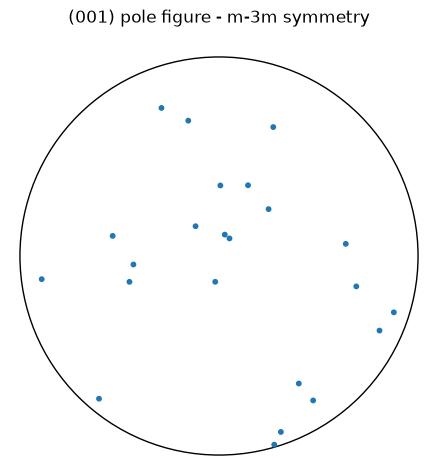
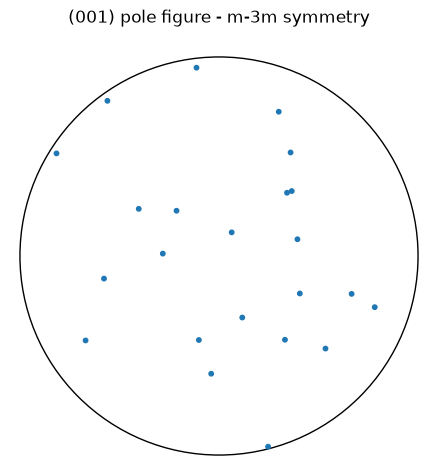
docs: final reporting (VERIFY_REPORT, UNSUPPORTED, README, ENV_REPORT)

diff --git a/docs/README.md b/docs/README.md
@@ -4,12 +4,19 @@ A fully reproducible, **headless** (no GUI, no GPU), open-source engineering and
 materials-science workspace: Ubuntu 24.04 devcontainer, per-domain conda-forge
 environments, numbered install scripts, honest smoke tests, and GitHub Actions CI.
 
-> Status: scaffolding (FEAT-001). Tier tooling, env YAMLs, and smoke tests are
-> added by later features.
+## Purpose
+
+Give engineers and materials scientists a single reproducible workspace that
+replaces common proprietary tools (Ansys/Abaqus/COMSOL, Fluent, SolidWorks,
+ChemDraw, MATLAB/Simulink, Origin, Thermo-Calc, VASP, VESTA, LTspice, ...) with
+open-source equivalents that run **headless** in a container or CI, with every
+tool backed by a smoke test. The full proprietary -> open-source fallback map is
+in [`docs/UNSUPPORTED.md`](UNSUPPORTED.md).
 
 ## Quick start
 
-Inside the devcontainer (or any Ubuntu 24.04 host):
+The two commands you need are **`make setup`** and **`make verify`**. Run them
+inside the devcontainer (or any Ubuntu 24.04 host):
 
 ```bash
 make setup    # detect environment, then run install stages 10..50 in order
@@ -17,6 +24,33 @@ make verify   # run every smoke test -> docs/VERIFY_REPORT.md
 make report   # print docs/ENV_REPORT.md and docs/VERIFY_REPORT.md
 make clean    # remove build artifacts (keeps source)
 ```
+
+## Prerequisites
+
+- **Ubuntu 24.04** (the devcontainer base). The install stages use `apt`,
+  conda-forge, `npm`, and GitHub release binaries.
+- **conda / mamba** (miniforge) for the per-domain environments in `envs/`.
+- **Node.js + npm** for mermaid-cli, draw.io and the self-hosted Ketcher build.
+- Optionally a working **Apptainer** (preferred) or **Docker** runtime for the
+  container-image tools (Code_Aster, OpenFOAM fallback).
+- `make`, `bash`, `git`, and Python 3.11.
+
+Everything is authored to run **inside the devcontainer/CI**; no host build
+system is required. On other hosts the install stages detect missing tooling and
+skip gracefully (see the honesty rule below).
+
+## Open in a devcontainer / GitHub Codespaces
+
+This repo ships a `.devcontainer/` (Ubuntu 24.04 `Dockerfile` +
+`devcontainer.json`). Two ways to open it:
+
+- **VS Code + Dev Containers:** open the folder and run
+  *"Dev Containers: Reopen in Container"*. The container builds from
+  `.devcontainer/Dockerfile`.
+- **GitHub Codespaces:** click **Code -> Codespaces -> Create codespace**. The
+  same devcontainer definition is used.
+
+Once the container is up, run `make setup` then `make verify`.
 
 ## Layout
 
@@ -71,6 +105,12 @@ Any static server works equally well, e.g. `python3 -m http.server 8080 -d .loca
 If the build fails or exceeds the 30-min cap it is recorded in
 [`docs/UNSUPPORTED.md`](UNSUPPORTED.md) with the RDKit/Indigo fallback.
 
+## Obsidian vault & plugins
+
+Lab notes live in `notes/obsidian-vault/`. The recommended community plugins
+(and how to enable them for a scientific workflow) are documented in
+[`notes/obsidian-vault/PLUGINS.md`](../notes/obsidian-vault/PLUGINS.md).
+
 ## FEA / multiphysics / mesh / CFD (Tier 3)
 
 The `fea` conda env (`envs/fea.yml`) provides FEniCSx (dolfinx), FiPy,
@@ -82,19 +122,25 @@ via `pip` in that env's `pip:` section. System solvers (`calculix-ccx`, `gmsh`,
 ### Offscreen rendering (PyVista / ParaView)
 
 On a headless host there is no X server, so PyVista/ParaView render through
-software/EGL OpenGL. `scripts/10_apt.sh` installs `libosmesa6` (OSMesa), the
-Mesa DRI/EGL libraries, and exports:
+software (**OSMesa**) or **EGL** OpenGL. `scripts/10_apt.sh` installs
+`libosmesa6` (OSMesa) plus the Mesa DRI/EGL/GLX libraries and exports the
+offscreen environment variables:
 
 ```bash
-export PYVISTA_OFF_SCREEN=true
+export PYVISTA_OFF_SCREEN=true   # PyVista never opens a window
+export PYOPENGL_PLATFORM=osmesa  # or 'egl' on EGL-capable hosts
+export MPLCONFIGDIR=/tmp/mpl     # writable matplotlib cache (read-only $HOME)
 ```
 
-Set this in your shell (CI and the devcontainer already export it) so PyVista
-never tries to open a window:
+Set these in your shell (CI and the devcontainer already export them) so PyVista
+renders headless:
 
 ```bash
 PYVISTA_OFF_SCREEN=true python my_pyvista_script.py
 ```
+
+OSMesa is the software rasteriser (no GPU needed); EGL is the GPU/accelerated
+offscreen path. Either works for the headless smoke tests.
 
 ### OpenFOAM: apt repo (primary) with Docker fallback
 
@@ -154,11 +200,72 @@ already loaded by `templates/block-notes.tex` and exercised by
 (`kicad-cli` version + minimal schematic SVG export), `schemdraw_rc.py` (RC
 circuit to PNG).
 
-## Honesty rule
+## Honesty rule & how to read `VERIFY_REPORT.md`
 
 A tool is never marked **PASS** until its smoke test actually passes. Anything
 that cannot install in a headless Linux container is recorded in
 [`docs/UNSUPPORTED.md`](UNSUPPORTED.md) with the reason and a fallback.
+
+`make verify` writes [`docs/VERIFY_REPORT.md`](VERIFY_REPORT.md): a markdown
+table with columns **tool | tier | version | PASS/FAIL/SKIP | seconds | note**,
+rows sorted by tier. Read it as follows:
+
+- **PASS** - the smoke test exited `0`: the tool is installed and its tiny real
+  computation (or render) succeeded. The `version` and `note` columns show what
+  actually ran.
+- **SKIP** - the smoke test exited `2`: the tool is absent / not applicable in
+  this environment. The `note` explains why and points to where it runs for
+  real; every SKIP has a matching reason + fallback in
+  [`docs/UNSUPPORTED.md`](UNSUPPORTED.md).
+- **FAIL** - any other nonzero exit (including a 120s timeout): the tool was
+  present but its check failed. The report never fabricates a PASS.
+
+The committed report reflects the **last real run on the validation host**
+(Amazon Linux 2023: no apt, no conda, no working container runtime). On that
+host only the pip-installable, pure-Python tests execute; everything that needs
+apt/conda/npm/a container is honestly **SKIP** and is staged to run in the
+Ubuntu 24.04 devcontainer / GitHub Actions CI.
+
+## Final summary: what installed vs what was skipped (and why)
+
+The current host run is **10 PASS / 0 FAIL / 28 SKIP (38 tests)**. The table
+below summarises each tool, distinguishing **host-executed** (ran for real here)
+from **devcontainer/CI-staged** (SKIP here, runs for real in the container).
+
+### Host-executed (PASS on this host via pip)
+
+| Tool / test | Tier | What ran |
+| --- | --- | --- |
+| core-python (numpy/scipy/sympy/matplotlib/schemdraw) | 1 | integral/det/plot + schemdraw SVG |
+| rdkit_indigo | 2 | RDKit + Indigo molecule render |
+| pycalphad_phase | 2 | Al-Zn phase diagram |
+| cantera_thermo | 2 | O2 Gibbs energy at 1000 K |
+| meshio_convert | 3 | VTU <-> MSH round-trip |
+| fenics_poisson (scikit-fem fallback) | 3 | Poisson solve, error < tol |
+| ase_pymatgen | 5 | BCC Fe -> space group Im-3m (229) |
+| orix_polefigure | 5 | (001) pole figure PNG |
+| torch_mace (torch CPU) | 5 | CPU tensor op (mace-torch optional) |
+| schemdraw_rc | 6 | RC circuit PNG |
+
+### Devcontainer/CI-staged (SKIP here; runs for real in the container/CI)
+
+| Tools | Tier | Why skipped on host | Where / how they run |
+| --- | --- | --- | --- |
+| latex, mermaid, graphviz, inkscape, drawio, octave, scilab, gnuplot, grace, openscad, veusz | 1 | no apt/npm on host | apt + `scripts/30_node.sh` in devcontainer/CI |
+| openbabel | 2 | conda-forge only | `chem` env |
+| calculix, elmer, freefem, su2, openfoam | 3 | apt/conda/container only | apt / conda / openfoam.org repo + Docker fallback |
+| code_aster | 3 | no working container runtime | Apptainer/Docker image; `scripts/run_aster.sh` |
+| Salome | 3 | skipped by design (GUI/CAE bundle) | Gmsh + meshio + ParaView + FreeCAD |
+| freecad_step, cadquery_stl, openmodelica, julia | 4 | apt / system OpenGL / release binary | apt + `envs/cad.yml` + `scripts/40_binaries.sh` |
+| CAMotics, MBDyn | 4 | apt availability-guarded | AppImage / PyChrono |
+| quantum_espresso, lammps, gromacs, ovito_load | 5 | apt/conda / system OpenGL-Qt | apt + `envs/atomistic.yml` |
+| GPAW, Neper | 5 | apt availability-guarded / conda-forge | conda-forge / source build |
+| ngspice, kicad | 6 | apt only | apt in devcontainer/CI |
+| Xyce | 6 | no wheel / apt pkg | conda-forge, else ngspice |
+
+Full reasons and the proprietary -> open-source fallback map are in
+[`docs/UNSUPPORTED.md`](UNSUPPORTED.md); live results are in
+[`docs/VERIFY_REPORT.md`](VERIFY_REPORT.md).
 
 ## Environment detection
 

diff --git a/docs/VERIFY_REPORT.md b/docs/VERIFY_REPORT.md
@@ -1,49 +1,49 @@
 # Verify Report
 
-_Generated by `scripts/90_verify.sh` on 2026-10-28T17:31:00Z._
+_Generated by `scripts/90_verify.sh` on 2026-10-28T17:35:48Z._
 
 Each smoke test runs with a 120s timeout. Honesty rule:
 a tool is PASS only when its smoke test exits 0; absent tools are SKIP.
 
 Totals: 10 passed, 0 failed, 28 skipped (38 tests).
 
-| tool | tier | version | result | seconds | note |
+| tool | tier | version | PASS/FAIL/SKIP | seconds | note |
 | --- | --- | --- | --- | --- | --- |
-| ase_pymatgen | 5 | ase=3.29.0 spglib=2.8.0 | PASS | 1 | BCC Fe space group Im-3m (No. 229); expected Im-3m (229) |
-| cadquery_stl | 4 | ? | SKIP | 0 | cadquery installed but native OCP import needs system OpenGL (mesa libGL): libGL.so.1: cannot open shared object file: No such file or directory; apt libgl1-mesa-dri/libglu1-mesa in devcontainer/CI |
-| calculix | 3 | ? | SKIP | 0 | gmsh python module absent; apt gmsh / conda-forge in fea env (devcontainer/CI) |
-| cantera_thermo | 2 | cantera=3.2.0; O2 g(1000K)=-220.9 kJ/kmol | PASS | 0 |  |
-| code_aster | 3 | ? | SKIP | 0 | Code_Aster needs a container runtime (none here); official image via Apptainer/Docker in CI. See docs/UNSUPPORTED.md |
 | core-python | 1 | numpy=2.4.6, scipy=1.17.1, sympy=1.14.0, matplotlib=3.11.2, schemdraw=0.23 | PASS | 1 |  |
 | drawio | 1 | ? | SKIP | 0 | drawio-desktop absent on host; scripts/30_node.sh installs it in devcontainer/CI |
-| elmer | 3 | ? | SKIP | 0 | Elmer (ElmerSolver/ElmerGrid) absent; apt elmerfem-csc in devcontainer/CI (apt-only) |
-| fenics_poisson | 3 | scikit-fem=12.0.2 (fallback) | PASS | 1 | scikit-fem Poisson max nodal error=8.026e-04 (tol 1e-02) |
-| freecad_step | 4 | ? | SKIP | 0 | FreeCADCmd absent on host; apt freecad in devcontainer/CI |
-| freefem | 3 | ? | SKIP | 0 | FreeFEM (FreeFem++) absent; apt freefem++ in devcontainer/CI (apt-only) |
 | gnuplot | 1 | ? | SKIP | 0 | gnuplot absent on host; apt gnuplot in devcontainer/CI |
 | grace | 1 | ? | SKIP | 0 | grace (gracebat) absent on host; apt grace in devcontainer/CI |
 | graphviz | 1 | ? | SKIP | 0 | graphviz (dot) absent on host; apt graphviz in devcontainer/CI |
-| gromacs | 5 | ? | SKIP | 0 | GROMACS (gmx) absent; apt gromacs / conda-forge gromacs in devcontainer/CI |
 | inkscape | 1 | ? | SKIP | 0 | inkscape absent on host; apt inkscape in devcontainer/CI (headless) |
-| julia | 4 | ? | SKIP | 0 | julia absent on host; installed via juliaup (scripts/40_binaries.sh) in devcontainer/CI |
-| kicad | 6 | ? | SKIP | 0 | kicad-cli absent on host; apt kicad in devcontainer/CI |
-| lammps | 5 | ? | SKIP | 0 | LAMMPS (lmp) absent; apt lammps / conda-forge lammps in devcontainer/CI |
 | latex | 1 | ? | SKIP | 0 | latexmk/texlive absent on host; runs in Ubuntu 24.04 devcontainer/CI (apt texlive-*) |
 | mermaid | 1 | ? | SKIP | 0 | mermaid-cli (mmdc) absent on host; installed by scripts/30_node.sh in devcontainer/CI |
-| meshio_convert | 3 | meshio=5.3.5 | PASS | 0 | round-trip VTU+MSH -> 4 points, 2 triangles |
-| ngspice | 6 | ? | SKIP | 0 | ngspice absent on host; apt ngspice in devcontainer/CI |
 | octave | 1 | ? | SKIP | 0 | octave absent on host; apt octave in devcontainer/CI |
-| openbabel | 2 | ? | SKIP | 0 | openbabel (obabel) absent on host; conda-forge openbabel in chem env (devcontainer/CI) |
-| openfoam | 3 | ? | SKIP | 0 | OpenFOAM (icoFoam/blockMesh) absent; openfoam.org apt repo in CI, else opencfd/openfoam-default Docker image (HAS_DOCKER) |
-| openmodelica | 4 | ? | SKIP | 0 | omc (OpenModelica) absent on host; official apt repo in devcontainer/CI |
 | openscad | 1 | ? | SKIP | 0 | openscad absent on host; apt openscad in devcontainer/CI |
-| orix_polefigure | 5 | orix=0.15.0 | PASS | 2 | loaded Oh symmetry, plotted (001) pole figure -> figures/python/orix_polefigure.png (24031 bytes) |
-| ovito_load | 5 | ? | SKIP | 0 | ovito absent; pip ovito in the 'atomistic' env (envs/atomistic.yml) |
-| pycalphad_phase | 2 | pycalphad=0.11.2 | PASS | 3 |  |
-| quantum_espresso | 5 | ? | SKIP | 0 | pw.x (Quantum ESPRESSO) absent; apt quantum-espresso / conda-forge qe in devcontainer/CI |
-| rdkit_indigo | 2 | rdkit=2026.09.1, indigo=1.46.0.0-gb36d38f52-x86_64-linux-gnu-11.2.1 | PASS | 0 |  |
-| schemdraw_rc | 6 | schemdraw=0.23 | PASS | 0 | drew RC circuit -> figures/python/schemdraw_rc.png (3254 bytes) |
 | scilab | 1 | ? | SKIP | 0 | scilab absent on host; apt scilab in devcontainer/CI |
-| su2 | 3 | ? | SKIP | 0 | SU2 (SU2_CFD) absent; conda-forge su2 in fea env (devcontainer/CI) or SU2 release binaries |
-| torch_mace | 5 | torch=2.15.0+cpu | PASS | 2 | torch CPU tensor op OK (sum=9.0); mace-torch absent (OPTIONAL) |
 | veusz-plot | 1 | ? | SKIP | 0 | veusz absent on host; apt veusz / conda-forge in devcontainer/CI |
+| cantera_thermo | 2 | cantera=3.2.0; O2 g(1000K)=-220.9 kJ/kmol | PASS | 0 |  |
+| openbabel | 2 | ? | SKIP | 0 | openbabel (obabel) absent on host; conda-forge openbabel in chem env (devcontainer/CI) |
+| pycalphad_phase | 2 | pycalphad=0.11.2 | PASS | 2 |  |
+| rdkit_indigo | 2 | rdkit=2026.09.1, indigo=1.46.0.0-gb36d38f52-x86_64-linux-gnu-11.2.1 | PASS | 0 |  |
+| calculix | 3 | ? | SKIP | 1 | gmsh python module absent; apt gmsh / conda-forge in fea env (devcontainer/CI) |
+| code_aster | 3 | ? | SKIP | 0 | Code_Aster needs a container runtime (none here); official image via Apptainer/Docker in CI. See docs/UNSUPPORTED.md |
+| elmer | 3 | ? | SKIP | 0 | Elmer (ElmerSolver/ElmerGrid) absent; apt elmerfem-csc in devcontainer/CI (apt-only) |
+| fenics_poisson | 3 | scikit-fem=12.0.2 (fallback) | PASS | 1 | scikit-fem Poisson max nodal error=8.026e-04 (tol 1e-02) |
+| freefem | 3 | ? | SKIP | 0 | FreeFEM (FreeFem++) absent; apt freefem++ in devcontainer/CI (apt-only) |
+| meshio_convert | 3 | meshio=5.3.5 | PASS | 0 | round-trip VTU+MSH -> 4 points, 2 triangles |
+| openfoam | 3 | ? | SKIP | 0 | OpenFOAM (icoFoam/blockMesh) absent; openfoam.org apt repo in CI, else opencfd/openfoam-default Docker image (HAS_DOCKER) |
+| su2 | 3 | ? | SKIP | 0 | SU2 (SU2_CFD) absent; conda-forge su2 in fea env (devcontainer/CI) or SU2 release binaries |
+| cadquery_stl | 4 | ? | SKIP | 0 | cadquery absent; pip cadquery in the 'cad' env (envs/cad.yml) |
+| freecad_step | 4 | ? | SKIP | 0 | FreeCADCmd absent on host; apt freecad in devcontainer/CI |
+| julia | 4 | ? | SKIP | 0 | julia absent on host; installed via juliaup (scripts/40_binaries.sh) in devcontainer/CI |
+| openmodelica | 4 | ? | SKIP | 0 | omc (OpenModelica) absent on host; official apt repo in devcontainer/CI |
+| ase_pymatgen | 5 | ase=3.29.0 spglib=2.8.0 | PASS | 0 | BCC Fe space group Im-3m (No. 229); expected Im-3m (229) |
+| gromacs | 5 | ? | SKIP | 0 | GROMACS (gmx) absent; apt gromacs / conda-forge gromacs in devcontainer/CI |
+| lammps | 5 | ? | SKIP | 0 | LAMMPS (lmp) absent; apt lammps / conda-forge lammps in devcontainer/CI |
+| orix_polefigure | 5 | orix=0.15.0 | PASS | 16 | loaded Oh symmetry, plotted (001) pole figure -> figures/python/orix_polefigure.png (23985 bytes) |
+| ovito_load | 5 | ? | SKIP | 0 | ovito absent; pip ovito in the 'atomistic' env (envs/atomistic.yml) |
+| quantum_espresso | 5 | ? | SKIP | 0 | pw.x (Quantum ESPRESSO) absent; apt quantum-espresso / conda-forge qe in devcontainer/CI |
+| torch_mace | 5 | torch=2.15.0+cpu | PASS | 1 | torch CPU tensor op OK (sum=9.0); mace-torch absent (OPTIONAL) |
+| kicad | 6 | ? | SKIP | 0 | kicad-cli absent on host; apt kicad in devcontainer/CI |
+| ngspice | 6 | ? | SKIP | 0 | ngspice absent on host; apt ngspice in devcontainer/CI |
+| schemdraw_rc | 6 | schemdraw=0.23 | PASS | 1 | drew RC circuit -> figures/python/schemdraw_rc.png (3254 bytes) |

diff --git a/docs/UNSUPPORTED.md b/docs/UNSUPPORTED.md
@@ -5,6 +5,43 @@ headless Linux container is recorded here with the **reason** and a **fallback**
 Do not loop on failures: try one alternative (conda-forge -> pip -> Docker/Apptainer
 image), then document it here and move on.
 
+## Proprietary -> open-source fallback mapping (complete)
+
+This is the canonical mapping of proprietary engineering / materials-science
+tools to the open-source replacements provided (or staged) in this workspace.
+Per-tier reasons and host-vs-devcontainer status are in the tables further down.
+
+| Proprietary tool | Open-source fallback(s) |
+| --- | --- |
+| Ansys / Abaqus / COMSOL | CalculiX, Code_Aster, Elmer, FEniCSx |
+| Ansys Fluent | OpenFOAM, SU2 |
+| SolidWorks / Fusion | FreeCAD, CadQuery |
+| ChemDraw | RDKit, Indigo, Ketcher |
+| MATLAB / Simulink | Octave, Scilab/Xcos, Julia, OpenModelica |
+| Origin | matplotlib, Veusz, gnuplot |
+| Thermo-Calc / FactSage | pycalphad, ESPEI, OpenCalphad |
+| VASP | Quantum ESPRESSO, ABINIT, GPAW |
+| VESTA | py3Dmol, OVITO, ASE |
+| LTspice | ngspice, Xyce |
+
+### Environment-specific skips (recorded during the tiers)
+
+These are tools skipped on **this validation host** for environment reasons, with
+the reason and the open-source fallback / where they run for real. Each has a
+matching detailed row in the per-tier tables below.
+
+| Tool | Tier | Reason skipped (host) | Fallback / where it runs |
+| --- | --- | --- | --- |
+| Salome | 3 | Skipped by design; heavy GUI/CAE bundle, no clean headless apt/conda install | Gmsh + meshio + ParaView (post) + FreeCAD (CAD) |
+| Code_Aster | 3 | No working container runtime on host (podman/conmon broken, apptainer absent -> `CONTAINER_RUNTIME=none`) | Official image via Apptainer/Docker in devcontainer/CI; `scripts/run_aster.sh` exits 2 (SKIP) cleanly |
+| CAMotics | 4 | Not in every Ubuntu apt index; guarded by availability | CAMotics AppImage, or CadQuery/build123d for CAM scripting |
+| MBDyn | 4 | Not in every Ubuntu apt index; guarded by availability | PyChrono (conda `projectchrono`), or MBDyn source build |
+| Neper | 5 | Not in every Ubuntu apt index; guarded by availability | Neper source build (GSL + nlopt + libscotch), or DAMASK grid generation |
+| GPAW | 5 | apt availability-guarded / conda-forge only; absent on host | conda-forge `gpaw` in `atomistic` env, or pip `gpaw`; alt DFT: QE / ABINIT |
+| Xyce | 6 | No PyPI wheel and no official apt package; conda-forge only (no conda on host) | conda-forge `xyce`, else Xyce binary installer, else ngspice |
+| CadQuery | 4 | OCP (OpenCascade) native import needs system OpenGL (`libGL.so.1`); `dnf` read-only on host | apt `libgl1-mesa-dri`/`libglu1-mesa` in devcontainer/CI; then exports STL for real |
+| OVITO | 5 | Native extension needs system OpenGL/Qt (`libGL.so.1`); `dnf` read-only on host | apt `libgl1-mesa-dri`/`libglu1-mesa` + Qt in devcontainer/CI; fallback ASE for structure IO |
+
 ## Tier 1 (notes + diagrams + plotting)
 
 On the authoring/validation host (Amazon Linux 2023: no apt, no conda, no npm),
@@ -79,7 +116,7 @@ honesty rule.
 | FreeFEM (FreeFem++) | 3 | apt-only (`freefem++`); absent on host | apt `freefem++` in devcontainer/CI | SKIP (host) |
 | OpenFOAM | 3 | No apt on host; openfoam.org repo + Docker both unavailable here | **Primary:** openfoam.org apt repo (`openfoam` pkg) in `scripts/10_apt.sh`. **Fallback:** `opencfd/openfoam-default` Docker image in `scripts/50_docker_images.sh` (gated on `HAS_DOCKER`) | SKIP (host) |
 | SU2 (SU2_CFD) | 3 | conda-forge `su2` in `fea` env; absent on host | conda-forge `su2` in `fea` env, else SU2 release binaries / Docker image | SKIP (host) |
-| Code_Aster | 3 | Ships as a container; host has **no working container runtime** (podman shim broken, apptainer absent -> `CONTAINER_RUNTIME=none`) | Official Code_Aster image via **Apptainer (preferred) or Docker**, pulled in `scripts/50_docker_images.sh`; run headless with `scripts/run_aster.sh <case.comm|.export>`. `run_aster.sh` exits 2 (SKIP) cleanly when no runtime exists | SKIP (host) |
+| Code_Aster | 3 | Ships as a container; host has **no working container runtime** (podman shim broken, apptainer absent -> `CONTAINER_RUNTIME=none`) | Official Code_Aster image via **Apptainer (preferred) or Docker**, pulled in `scripts/50_docker_images.sh`; run headless with `scripts/run_aster.sh <case.comm \| .export>`. `run_aster.sh` exits 2 (SKIP) cleanly when no runtime exists | SKIP (host) |
 | MOOSE / PRISMS-PF | 3 | OPTIONAL, heavy; conda-only `moose-dev`. Gated on `HEAVY_OK` (RAM>=16GB && disk>=40GB). No conda on host | conda `moose-dev` (channel `conda.software.inl.gov/public`) in `scripts/20_conda.sh`; **never source-compiled**. PRISMS-PF via deal.II (apt `libdeal.ii-dev`). Fallback: FEniCSx / MFEM | SKIP (host) |
 | Salome (SALOME platform) | 3 | **Skipped by design.** Heavy GUI/CAD-CAE integration platform; no clean headless apt/conda install, and the official distribution is a large GUI bundle | **Fallback:** Gmsh (meshing) + meshio (mesh I/O) + ParaView/`paraview-python` (post) cover the headless mesh+visualize workflow; FreeCAD (Tier 4 CAD env) for CAD. Use the SALOME Docker image only if a GUI session is explicitly needed | SKIP (by design) |
 

diff --git a/docs/ENV_REPORT.md b/docs/ENV_REPORT.md
@@ -1,6 +1,6 @@
 # Environment Report
 
-_Generated by `scripts/00_detect.sh` on 2026-10-28T16:45:54Z._
+_Generated by `scripts/00_detect.sh` on 2026-10-28T17:35:56Z._
 
 ## Measured resources
 
@@ -8,7 +8,7 @@ _Generated by `scripts/00_detect.sh` on 2026-10-28T16:45:54Z._
 | --- | --- |
 | CPU count | 8 |
 | RAM (GB) | 30 |
-| Free disk on workspace mount (GB) | 86 |
+| Free disk on workspace mount (GB) | 84 |
 
 ## Capability detection
 
